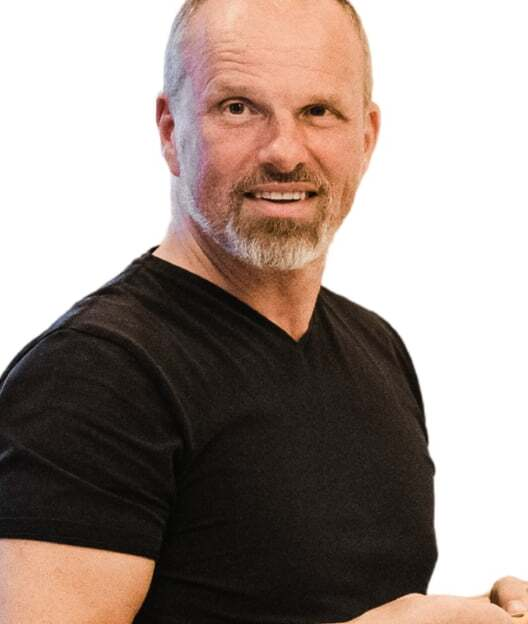
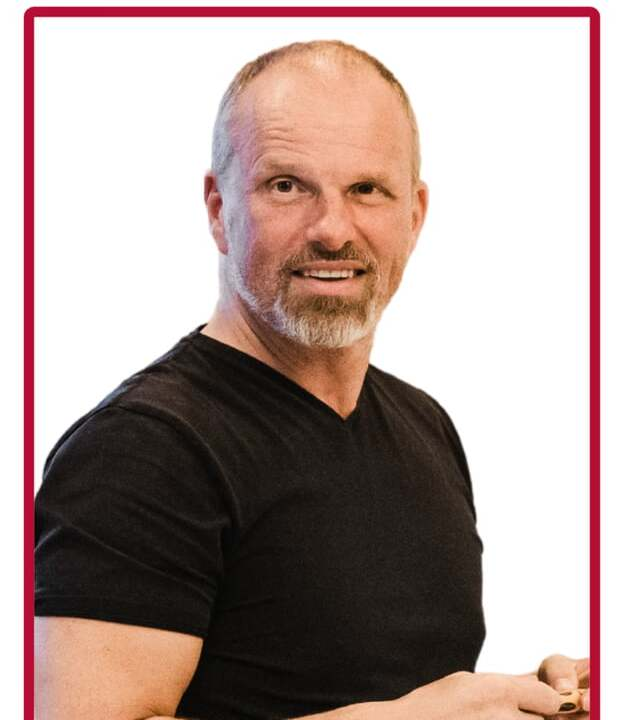
fix: add headroom to all portraits, move testimonials after hero

diff --git a/index.html b/index.html
@@ -127,7 +127,7 @@
   <main>
 
     <!-- HERO – per README: "Beratung im Mittelstand" -->
-    <section id="hero" class="relative min-h-screen flex items-center pt-20">
+    <section id="hero" class="relative flex items-center pt-20">
       <!-- Red top accent line -->
       <div class="absolute top-20 left-0 right-0 h-1 bg-gp-red"></div>
       <div class="mx-auto max-w-7xl px-6 lg:px-8 py-16 lg:py-24 w-full">
@@ -146,6 +146,61 @@
                 Klarheitsgespräch vereinbaren
               </a>
             </div>
+          </div>
+        </div>
+      </div>
+    </section>
+
+    <!-- KUNDENSTIMMEN – direkt nach Hero -->
+    <section class="bg-gray-50 dark:bg-gray-900 py-12 md:py-16 border-t border-gray-200 dark:border-gray-800">
+      <div class="mx-auto max-w-7xl px-6 lg:px-8">
+        <h2 class="font-heading text-2xl lg:text-3xl font-bold text-gray-900 dark:text-white mb-8">
+          Was unsere Kunden sagen
+        </h2>
+        <div class="flex-trio">
+          <div class="bg-white dark:bg-gray-800 rounded-lg p-5 border border-gray-200 dark:border-gray-700">
+            <p class="font-body text-sm leading-relaxed text-gray-600 dark:text-gray-400 italic">
+              „Zuerst dachte ich, es wäre das typische Beratergelaber, aber da steckt deutlich mehr dahinter. Danke."
+            </p>
+            <p class="font-heading text-sm font-bold text-gray-900 dark:text-white mt-3">Josef Reichinger</p>
+            <p class="font-body text-xs text-gray-500">Betriebsleiter, FASCHANG Werkzeugbau GmbH</p>
+          </div>
+          <div class="bg-white dark:bg-gray-800 rounded-lg p-5 border border-gray-200 dark:border-gray-700">
+            <p class="font-body text-sm leading-relaxed text-gray-600 dark:text-gray-400 italic">
+              „V&amp;S hat uns mit an Brutalität grenzender Offenheit den Spiegel vorgehalten. Danke dafür."
+            </p>
+            <p class="font-heading text-sm font-bold text-gray-900 dark:text-white mt-3">Dr. Stefan Heun</p>
+            <p class="font-body text-xs text-gray-500">Geschäftsführer, Schleifring GmbH</p>
+          </div>
+          <div class="bg-white dark:bg-gray-800 rounded-lg p-5 border border-gray-200 dark:border-gray-700">
+            <p class="font-body text-sm leading-relaxed text-gray-600 dark:text-gray-400 italic">
+              „Berater, die Maschinenbau und Familienunternehmen wirklich verstehen, sind selten. Funktionierende Termintreue, wie wir sie nie hatten."
+            </p>
+            <p class="font-heading text-sm font-bold text-gray-900 dark:text-white mt-3">Jürgen Knoll</p>
+            <p class="font-body text-xs text-gray-500">Geschäftsführer, KNOLL Maschinenbau GmbH</p>
+          </div>
+        </div>
+        <div class="flex-trio mt-4">
+          <div class="bg-white dark:bg-gray-800 rounded-lg p-5 border border-gray-200 dark:border-gray-700">
+            <p class="font-body text-sm leading-relaxed text-gray-600 dark:text-gray-400 italic">
+              „V&amp;S hat uns durch finstere Zeiten begleitet. Wir sind gestärkt aus der Krise hervorgegangen."
+            </p>
+            <p class="font-heading text-sm font-bold text-gray-900 dark:text-white mt-3">Horst Leidner</p>
+            <p class="font-body text-xs text-gray-500">Geschäftsführer, mimatic GmbH</p>
+          </div>
+          <div class="bg-white dark:bg-gray-800 rounded-lg p-5 border border-gray-200 dark:border-gray-700">
+            <p class="font-body text-sm leading-relaxed text-gray-600 dark:text-gray-400 italic">
+              „Billig war er nicht. Aber dafür sehr gut. V&amp;S hat uns Wege aufgezeigt, Innovationen schneller auf den Markt zu bringen."
+            </p>
+            <p class="font-heading text-sm font-bold text-gray-900 dark:text-white mt-3">Martina Barton</p>
+            <p class="font-body text-xs text-gray-500">Geschäftsleitung, BBG GmbH &amp; Co. KG</p>
+          </div>
+          <div class="bg-white dark:bg-gray-800 rounded-lg p-5 border border-gray-200 dark:border-gray-700">
+            <p class="font-body text-sm leading-relaxed text-gray-600 dark:text-gray-400 italic">
+              „Alle Abteilungsleiter ziehen am selben Strang. Wir sind im Fluss. Planung und Führung fällt uns jetzt viel leichter."
+            </p>
+            <p class="font-heading text-sm font-bold text-gray-900 dark:text-white mt-3">Geschäftsführer</p>
+            <p class="font-body text-xs text-gray-500">Mittelständischer Maschinenbauer</p>
           </div>
         </div>
       </div>
@@ -352,73 +407,6 @@
               <p class="font-body text-sm leading-relaxed text-gray-600 dark:text-gray-400 mt-3">
                 Lean als gelebte Praxis. Fluss erzeugen, Engpässe lösen, Verschwendung eliminieren&nbsp;– direkt in der Wertschöpfung.
               </p>
-            </div>
-          </div>
-        </div>
-      </div>
-    </section>
-
-    <!-- KUNDENSTIMMEN -->
-    <section class="bg-gray-50 dark:bg-gray-900 py-16 md:py-24 border-t border-gray-200 dark:border-gray-800">
-      <div class="mx-auto max-w-7xl px-6 lg:px-8">
-        <h2 class="font-heading text-3xl lg:text-5xl font-bold leading-tight text-gray-900 dark:text-white mb-12">
-          Was unsere Kunden sagen
-        </h2>
-        <div class="flex-trio">
-          <div class="bg-white dark:bg-gray-800 rounded-lg p-6 border border-gray-200 dark:border-gray-700">
-            <p class="font-body text-base leading-relaxed text-gray-600 dark:text-gray-400 italic">
-              „Zuerst dachte ich, es wäre das typische Beratergelaber, aber da steckt deutlich mehr dahinter. Danke."
-            </p>
-            <div class="mt-4">
-              <p class="font-heading text-sm font-bold text-gray-900 dark:text-white">Josef Reichinger</p>
-              <p class="font-body text-sm text-gray-500">Betriebsleiter, FASCHANG Werkzeugbau GmbH</p>
-            </div>
-          </div>
-          <div class="bg-white dark:bg-gray-800 rounded-lg p-6 border border-gray-200 dark:border-gray-700">
-            <p class="font-body text-base leading-relaxed text-gray-600 dark:text-gray-400 italic">
-              „V&amp;S hat uns mit an Brutalität grenzender Offenheit den Spiegel vorgehalten. Danke dafür."
-            </p>
-            <div class="mt-4">
-              <p class="font-heading text-sm font-bold text-gray-900 dark:text-white">Dr. Stefan Heun</p>
-              <p class="font-body text-sm text-gray-500">Geschäftsführer, Schleifring GmbH</p>
-            </div>
-          </div>
-          <div class="bg-white dark:bg-gray-800 rounded-lg p-6 border border-gray-200 dark:border-gray-700">
-            <p class="font-body text-base leading-relaxed text-gray-600 dark:text-gray-400 italic">
-              „Maschinenbau ist etwas Besonderes. Familienunternehmen auch. Berater, die das beides wirklich verstehen, sind selten."
-            </p>
-            <div class="mt-4">
-              <p class="font-heading text-sm font-bold text-gray-900 dark:text-white">Jürgen Knoll</p>
-              <p class="font-body text-sm text-gray-500">Geschäftsführer, KNOLL Maschinenbau GmbH</p>
-            </div>
-          </div>
-        </div>
-        <div class="flex-trio mt-6">
-          <div class="bg-white dark:bg-gray-800 rounded-lg p-6 border border-gray-200 dark:border-gray-700">
-            <p class="font-body text-base leading-relaxed text-gray-600 dark:text-gray-400 italic">
-              „V&amp;S hat uns durch finstere Zeiten begleitet. Wir sind gestärkt aus unserer damaligen Krise hervorgegangen."
-            </p>
-            <div class="mt-4">
-              <p class="font-heading text-sm font-bold text-gray-900 dark:text-white">Horst Leidner</p>
-              <p class="font-body text-sm text-gray-500">Geschäftsführer, mimatic GmbH</p>
-            </div>
-          </div>
-          <div class="bg-white dark:bg-gray-800 rounded-lg p-6 border border-gray-200 dark:border-gray-700">
-            <p class="font-body text-base leading-relaxed text-gray-600 dark:text-gray-400 italic">
-              „Guter Rat ist teuer, sagt man. Naja – billig war er nicht. Aber dafür sehr gut. V&amp;S hat uns Wege aufgezeigt, Innovationen schneller auf den Markt zu bringen."
-            </p>
-            <div class="mt-4">
-              <p class="font-heading text-sm font-bold text-gray-900 dark:text-white">Martina Barton</p>
-              <p class="font-body text-sm text-gray-500">Mitglied der Geschäftsleitung, BBG GmbH &amp; Co. KG</p>
-            </div>
-          </div>
-          <div class="bg-white dark:bg-gray-800 rounded-lg p-6 border border-gray-200 dark:border-gray-700">
-            <p class="font-body text-base leading-relaxed text-gray-600 dark:text-gray-400 italic">
-              „Alle Abteilungsleiter ziehen jetzt am selben Strang. Man könnte sagen, wir sind im Fluss. Planung, Steuerung und Führung fällt uns jetzt viel leichter."
-            </p>
-            <div class="mt-4">
-              <p class="font-heading text-sm font-bold text-gray-900 dark:text-white">Geschäftsführer</p>
-              <p class="font-body text-sm text-gray-500">Mittelständischer Maschinenbauer</p>
             </div>
           </div>
         </div>
